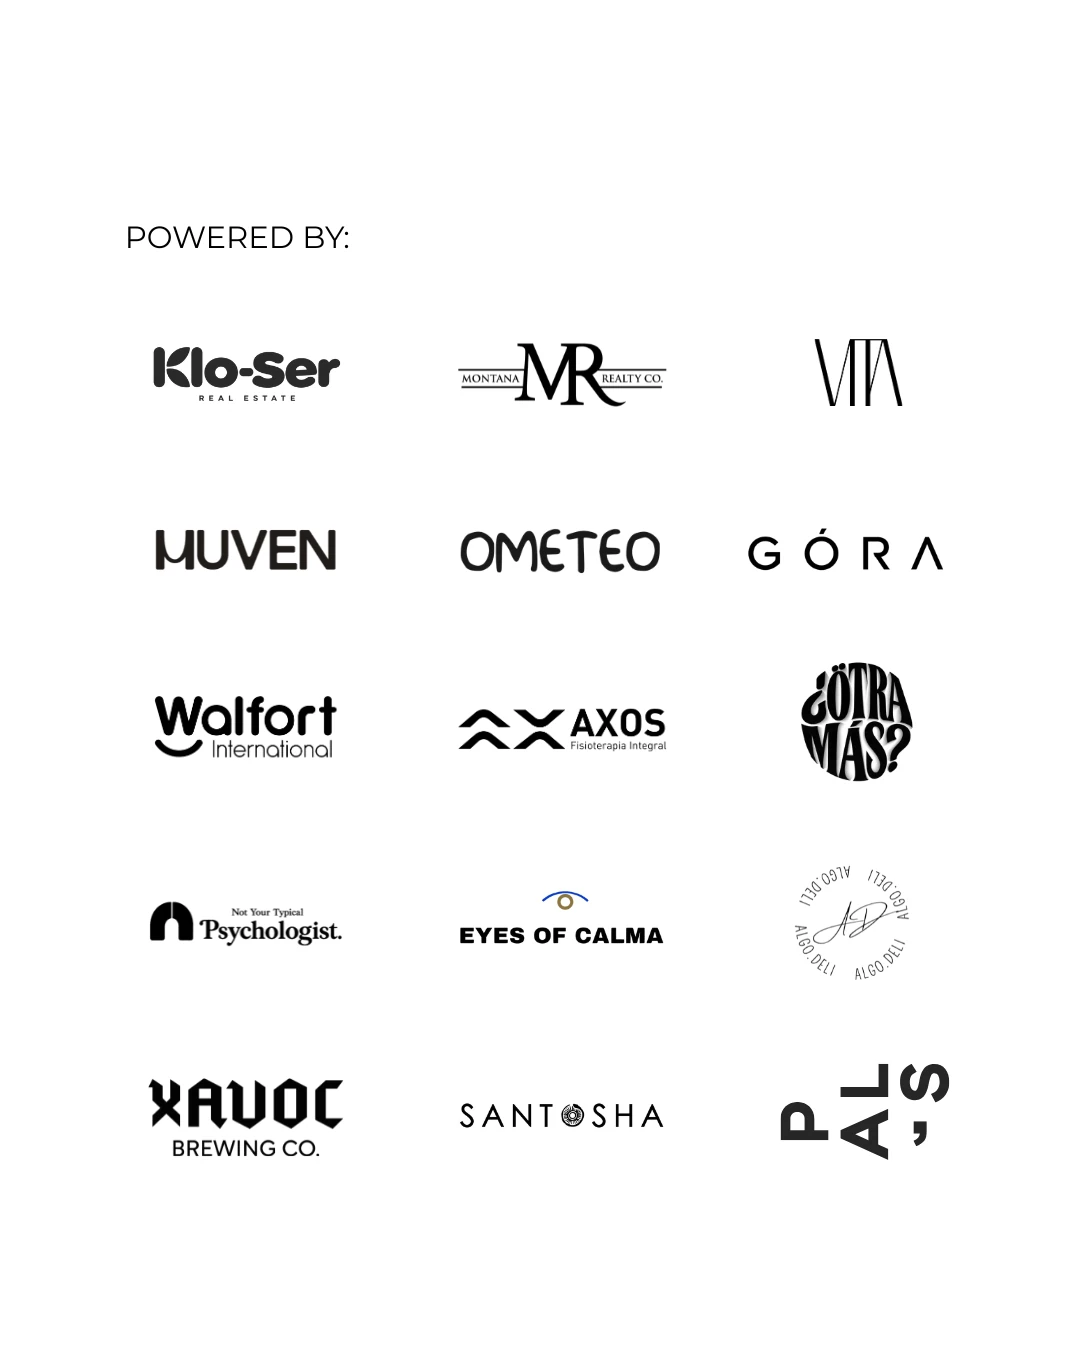
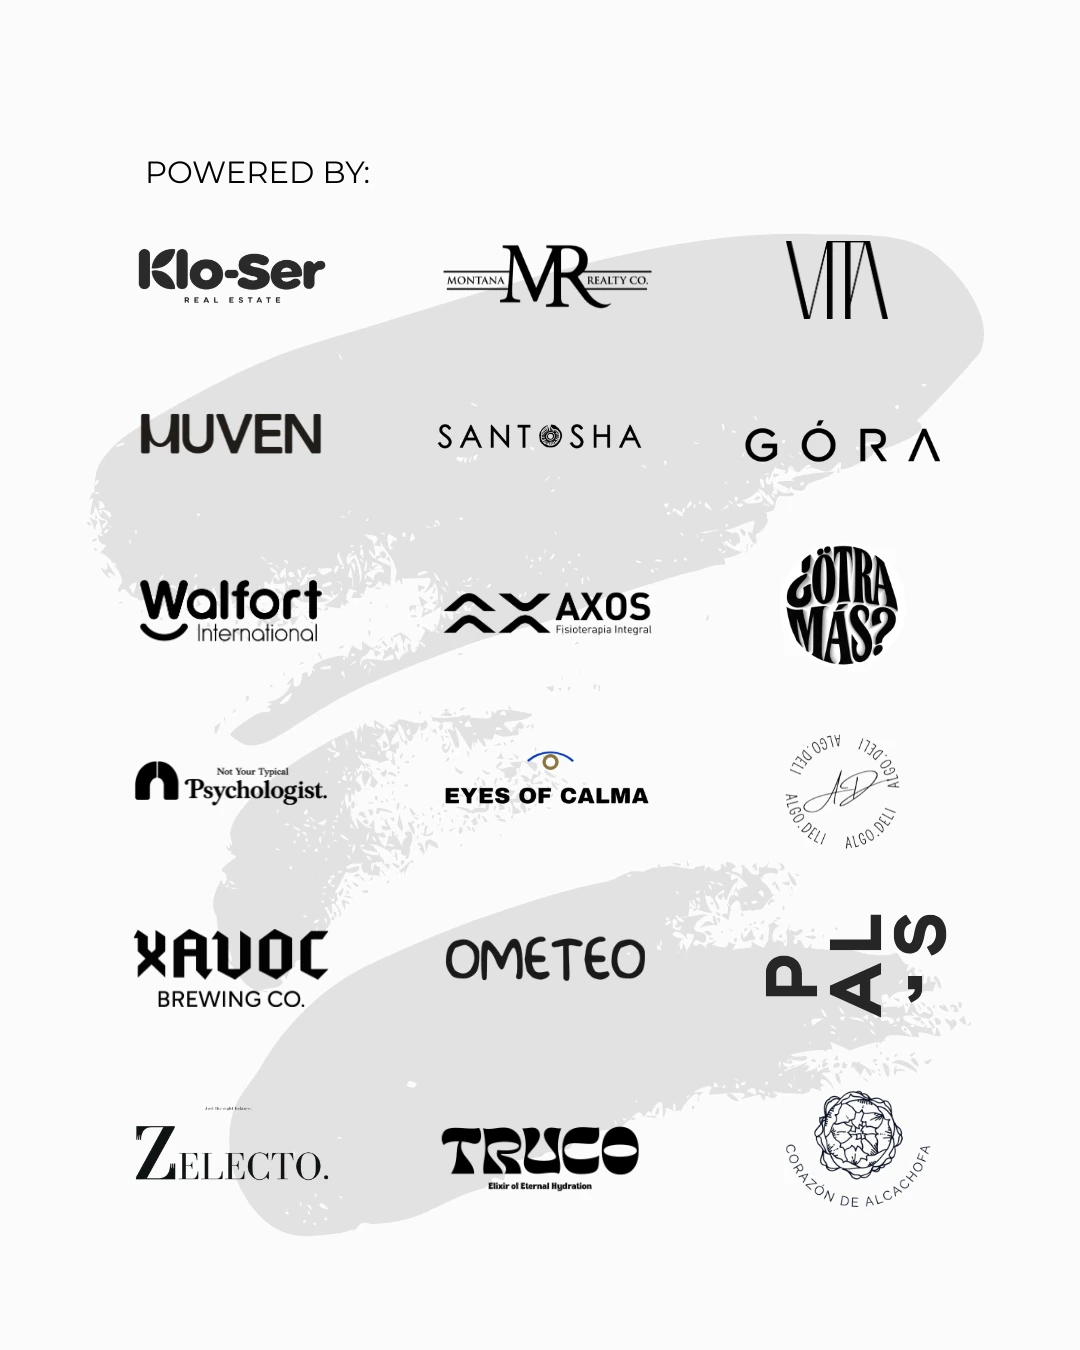
feat(evento): new sponsors image and WhatsApp group button after signup
- Replace the "Powered by" image with the updated 18-brand version (cache-busted with ?v=2) and update its alt text
- Show a "Unirme al grupo de WhatsApp" button as the main action once the registration is confirmed (EVENTO.whatsappUrl)

diff --git a/evento.html b/evento.html
@@ -567,7 +567,7 @@
         <p class="lead reveal d1">Reset existe gracias a ellas. Al final de la tarde hay giveaway y un agradecimiento en persona.</p>
       </div>
       <figure class="reveal d1">
-        <img id="brandsImg" src="assets/photos/evento/reset-brands.webp" alt="Powered by: las marcas que acompañan Reset by MUVEN, entre ellas Klo-Ser Real Estate, Montana Realty Co., MUVEN, Ometeo, Góra, Walfort International, Axos Fisioterapia Integral, Not Your Typical Psychologist, Eyes of Calma y Santosha." loading="lazy" width="1080" height="1350">
+        <img id="brandsImg" src="assets/photos/evento/reset-brands.webp?v=2" alt="Powered by: las marcas que acompañan Reset by MUVEN, entre ellas Klo-Ser Real Estate, Montana Realty Co., Vita, MUVEN, Santosha, Góra, Walfort International, Axos Fisioterapia Integral, ¿Otra Más?, Not Your Typical Psychologist, Eyes of Calma, Algo.Deli, Xavoc Brewing Co., Ometeo, Pal's, Zelecto, Truco y Corazón de Alcachofa." loading="lazy" width="1080" height="1350">
       </figure>
     </div>
   </div>
@@ -642,7 +642,9 @@
           <h3 id="doneTitle">You&rsquo;re in.</h3>
           <p id="doneText"></p>
           <p class="preview-note" id="donePreview" hidden>Vista previa: el registro todavía no está conectado a la hoja, así que esto no se guardó.</p>
+          <p id="doneWaText" hidden>Último paso: únete al grupo de WhatsApp. Ahí mandamos los avisos del evento.</p>
           <div class="row">
+            <a class="btn" id="doneWa" href="#" target="_blank" rel="noopener" data-track="whatsapp_group_click" hidden>Unirme al grupo de WhatsApp <span class="arrow">→</span></a>
             <a class="btn" id="doneCal" href="#" target="_blank" rel="noopener" data-track="calendar_click">Agregar a mi calendario <span class="arrow">→</span></a>
             <a class="link-btn" id="doneMaps" href="#" target="_blank" rel="noopener" data-track="maps_click">Cómo llegar</a>
             <button type="button" class="link-btn" id="doneAgain">Registrar a alguien más</button>
@@ -736,6 +738,8 @@ const EVENTO = {
   cupo: null,                           // ej. 60
   // URL de la aplicación web de Google Apps Script (termina en /exec). Mientras sea null, el formulario funciona en modo vista previa y no guarda nada.
   registroUrl: null,
+  // Link de invitación al grupo de WhatsApp: aparece como botón al confirmar el registro. null = sin botón.
+  whatsappUrl: 'https://chat.whatsapp.com/C8LUIrJvVlMCIdVbv8UcHT?s=sw&p=i&mlu=0&ilr=4',
   instagram: 'muvenmx',
   correo: 'muven.mx@gmail.com',
   disciplinas: ['Running', 'Trail', 'Hyrox', 'Funcional', 'Ciclismo', 'Otro'],
@@ -969,6 +973,14 @@ const STRIP_DIM = { 'strip-01': [600, 900], 'strip-02': [600, 900], 'strip-03': 
   $('#bibFecha').textContent = inicio ? `${fechaCorta()} · ${horaTxt()}` : 'Fecha por confirmar';
   $('#bibLugar').textContent = EVENTO.lugar || EVENTO.ciudad.split(',')[0];
   if (EVENTO.cupo) $('#rsvpLead').textContent += ` Hay ${EVENTO.cupo} lugares.`;
+  if (EVENTO.whatsappUrl) {
+    $('#doneWa').href = EVENTO.whatsappUrl;
+    $('#doneWa').hidden = false;
+    $('#doneWaText').hidden = false;
+    // Con el grupo como acción principal, el calendario pasa a link secundario
+    $('#doneCal').className = 'link-btn';
+    $('#doneCal').querySelector('.arrow').remove();
+  }
   if (calUrl) $('#doneCal').href = calUrl; else $('#doneCal').hidden = true;
   if (EVENTO.mapsUrl) $('#doneMaps').href = EVENTO.mapsUrl; else $('#doneMaps').hidden = true;
 
